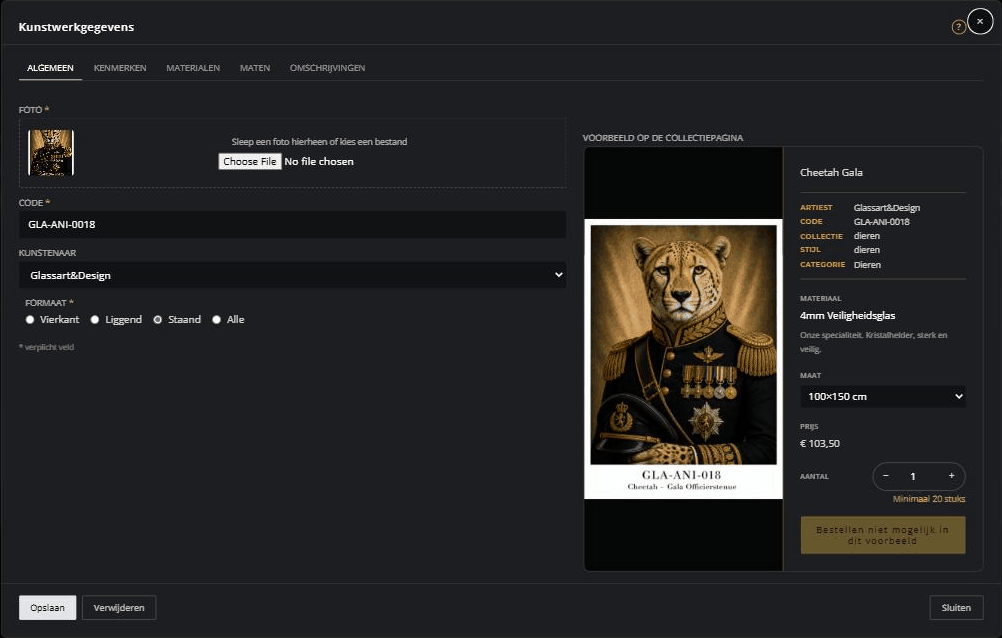
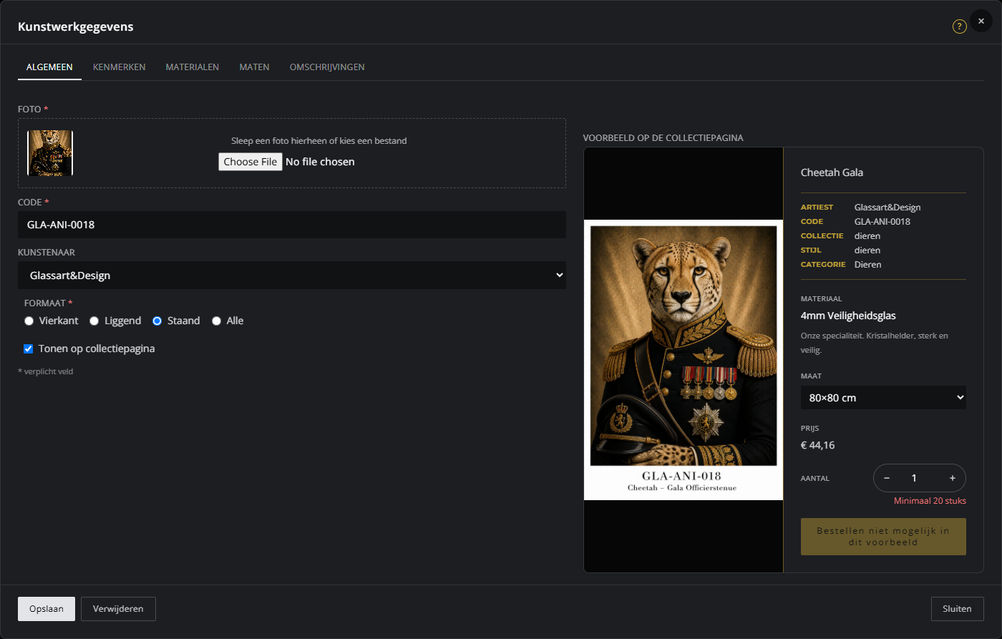
feat: kunstwerk wel of niet tonen op de collectiepagina
Nieuwe kolom toonInCollectie (NOT NULL DEFAULT TRUE) op kunstwerken, met een
vinkje "Tonen op collectiepagina" op het tabblad Algemeen van het
kunstwerkformulier en een kolom "Getoond" in het overzicht.

De collectiepagina filtert uitgezette kunstwerken weg, met één uitzondering: de
ingelogde klant die het exclusieve recht heeft op de kunstenaar van dat
kunstwerk ziet het wél. Daarvoor is heeftExclusiefRecht() toegevoegd naast
resolveOrderRight -- bewust smaller, want die zegt ook ja bij een kunstenaar
zonder exclusiviteit.

In beheer blijft een uitgezet kunstwerk gewoon selecteerbaar voor een nieuwe
bestelregel; alleen de klantwebsite verbergt het.

diff --git a/src/components/beheer/KunstwerkenSection.tsx b/src/components/beheer/KunstwerkenSection.tsx
@@ -12,7 +12,7 @@ import { useKunstwerkFotoUpload } from '@/lib/useKunstwerkFotoUpload';
 import { useAdminAuth } from '@/lib/useAdminAuth';
 import { logActiviteit } from '@/lib/logActiviteit';
 import type { Kunstwerk, Segment, Materiaal, Materiaalsoort, Maat, KunstwerkFormaat, Stijl, Categorie } from './materiaalTypes';
-import { isVierkanteMaat, isMateriaalActief } from './materiaalTypes';
+import { isVierkanteMaat, isMateriaalActief, toontKunstwerkInCollectie } from './materiaalTypes';
 import type { Kunstenaar } from './kunstenaarTypes';
 import { detectFormaatFromFile, detectFormaatFromImageUrl } from '@/lib/detectKunstwerkFormaat';
 import { stelVolgendeCodeVoor, vindBekendePrefixen } from '@/lib/kunstwerkCodeVoorstel';
@@ -68,6 +68,7 @@ const LEGE_FORM = {
   stijlIds: [] as string[],
   categorieIds: [] as string[],
   aiGegenereerd: false,
+  toonInCollectie: true,
   prijsPerM2: '',
   omschrijvingNl: '',
   omschrijvingFr: '',
@@ -110,6 +111,7 @@ export function KunstwerkenSection({
   const [stijlIds, setStijlIds] = useState<string[]>(LEGE_FORM.stijlIds);
   const [categorieIds, setCategorieIds] = useState<string[]>(LEGE_FORM.categorieIds);
   const [aiGegenereerd, setAiGegenereerd] = useState<boolean>(LEGE_FORM.aiGegenereerd);
+  const [toonInCollectie, setToonInCollectie] = useState<boolean>(LEGE_FORM.toonInCollectie);
   const [nieuweSegmentNaam, setNieuweSegmentNaam] = useState('');
   const [pendingNieuweSegmentNaam, setPendingNieuweSegmentNaam] = useState<string | null>(null);
   const [segmentToevoegenError, setSegmentToevoegenError] = useState<string | null>(null);
@@ -307,6 +309,7 @@ export function KunstwerkenSection({
       stijlIds,
       categorieIds,
       aiGegenereerd,
+      toonInCollectie,
       omschrijvingNl,
       omschrijvingFr,
       omschrijvingDe,
@@ -332,6 +335,7 @@ export function KunstwerkenSection({
       stijlIds,
       categorieIds,
       aiGegenereerd,
+      toonInCollectie,
       prijsPerM2,
       omschrijvingNl,
       omschrijvingFr,
@@ -402,6 +406,7 @@ export function KunstwerkenSection({
     setStijlIds(LEGE_FORM.stijlIds);
     setCategorieIds(LEGE_FORM.categorieIds);
     setAiGegenereerd(LEGE_FORM.aiGegenereerd);
+    setToonInCollectie(LEGE_FORM.toonInCollectie);
     setNieuweStijlNaam('');
     setNieuweCategorieNaam('');
     setPendingNieuweStijlNaam(null);
@@ -438,6 +443,7 @@ export function KunstwerkenSection({
     setStijlIds(kunstwerk.stijlIds ?? []);
     setCategorieIds(kunstwerk.categorieIds ?? []);
     setAiGegenereerd(kunstwerk.aiGegenereerd ?? false);
+    setToonInCollectie(toontKunstwerkInCollectie(kunstwerk));
     setPrijsPerM2(kunstwerk.prijsPerM2 != null ? String(kunstwerk.prijsPerM2) : '');
     setOmschrijvingNl(kunstwerk.omschrijvingNl);
     setOmschrijvingFr(kunstwerk.omschrijvingFr);
@@ -707,6 +713,11 @@ export function KunstwerkenSection({
     { key: 'kunstenaarNaam', label: t('kunstwerkenColKunstenaar') },
     { key: 'segmentNamen', label: t('kunstwerkenColSegmenten') },
     { key: 'omschrijvingNl', label: t('kunstwerkenColOmschrijving') },
+    {
+      key: 'toonInCollectie',
+      label: t('kunstwerkenColGetoond'),
+      render: (row) => (toontKunstwerkInCollectie(row) ? 'Ja' : 'Nee'),
+    },
   ];
 
   return (
@@ -1013,6 +1024,16 @@ export function KunstwerkenSection({
               </span>
             )}
           </fieldset>
+
+          <label className="flex items-center gap-2 px-2 text-sm text-white/80">
+            <input
+              type="checkbox"
+              checked={toonInCollectie}
+              onChange={(event) => setToonInCollectie(event.target.checked)}
+              data-testid="kunstwerk-modal-toon-in-collectie"
+            />
+            {t('kunstwerkenLabelToonInCollectie')}
+          </label>
               </div>
 
               <div className={activeTab === 'kenmerken' ? 'flex flex-col gap-3' : 'hidden'}>

diff --git a/src/components/beheer/documentatie/chapters/KunstwerkenChapter.tsx b/src/components/beheer/documentatie/chapters/KunstwerkenChapter.tsx
@@ -6,7 +6,7 @@ export function KunstwerkenChapter() {
       <P>Elk product dat een klant kan bestellen, is een &quot;kunstwerk&quot; in beheer.</P>
       <Screenshot
         src="/documentatie/kunstwerken.png"
-        alt="Het kunstwerk-formulier, tabblad Algemeen, van kunstwerk GLA-ANI-0018 (&quot;Cheetah Gala&quot;) van kunstenaar Glassart&amp;Design, met foto, code, kunstenaar en formaat, met live voorbeeld van de collectiepagina ernaast met artiest, code, collectie, stijl, categorie, materiaal, maat, prijs en aantal"
+        alt="Het kunstwerk-formulier, tabblad Algemeen, van kunstwerk GLA-ANI-0018 (&quot;Cheetah Gala&quot;) van kunstenaar Glassart&amp;Design, met foto, code, kunstenaar, formaat en het aangevinkte &quot;Tonen op collectiepagina&quot;, met live voorbeeld van de collectiepagina ernaast met artiest, code, collectie, stijl, categorie, materiaal, maat, prijs en aantal"
         caption="Het kunstwerk-formulier, tabblad Algemeen (hier: kunstwerk GLA-ANI-0018, &quot;Cheetah Gala&quot;)"
       />
       <SubSection id="kunstwerken-foto" title="Foto">
@@ -57,6 +57,25 @@ export function KunstwerkenChapter() {
           kunstenaar heeft, dan hoef je die niet alsnog te koppelen om je wijziging op te slaan.
           Koppel je wél een kunstenaar, dan gelden voor dit kunstwerk meteen diens
           kunstenaarsopslag en exclusiviteitsregels — zie het hoofdstuk over kunstenaars.
+        </P>
+      </SubSection>
+      <SubSection id="kunstwerken-tonen" title="Tonen op collectiepagina">
+        <P>
+          Met het vinkje &quot;Tonen op collectiepagina&quot; bepaal je of klanten dit kunstwerk in de
+          <DocLink anchor="klant-website"> webshop</DocLink> te zien krijgen. Bij een nieuw kunstwerk
+          staat het vinkje aan. Zet je het uit, dan verdwijnt het kunstwerk uit Collecties — handig voor
+          werk dat je nog niet wilt tonen, of dat je uit de verkoop haalt zonder het te verwijderen. In
+          de kunstwerkenlijst zie je in de kolom &quot;Getoond&quot; in één oogopslag hoe het bij elk
+          kunstwerk staat.
+        </P>
+        <P>
+          Twee dingen blijven gewoon werken. Je kunt het kunstwerk in beheer nog steeds op een bestelling
+          zetten, bijvoorbeeld voor een klant die er telefonisch om vraagt, en bestaande bestellingen
+          waarin het al staat veranderen niet. En heeft een klant het{' '}
+          <DocLink anchor="kunstenaars-exclusiviteit">exclusieve recht</DocLink> op de kunstenaar van dit
+          kunstwerk, dan ziet die klant het na inloggen tóch in Collecties staan — precies waar zo&apos;n
+          vinkje voor bedoeld is: werk uit de open collectie halen zonder het weg te nemen bij de klant
+          die er recht op heeft.
         </P>
       </SubSection>
       <SubSection id="kunstwerken-formaat" title="Formaat en maten">

diff --git a/tests/components/ProductsGrid.test.tsx b/tests/components/ProductsGrid.test.tsx
@@ -547,6 +547,36 @@ describe('ProductsGrid', () => {
     expect(screen.queryByText('Verborgen paneel')).not.toBeInTheDocument();
   });
 
+  it('verbergt een kunstwerk dat niet op de collectiepagina getoond mag worden', async () => {
+    mockCollections({
+      kunstwerken: [
+        { ...KUNSTWERKEN[0], id: 'kw-1', omschrijvingNl: 'Zichtbaar paneel' },
+        { ...KUNSTWERKEN[1], id: 'kw-2', toonInCollectie: false, omschrijvingNl: 'Verborgen paneel' },
+      ],
+    });
+    renderProductsGrid();
+    expect(await screen.findByText('Zichtbaar paneel')).toBeInTheDocument();
+    expect(screen.queryByText('Verborgen paneel')).not.toBeInTheDocument();
+  });
+
+  it('toont een verborgen kunstwerk wél aan de ingelogde klant met exclusief recht', async () => {
+    authUser = { id: 'uid-1', email: 'klant@example.com', status: 'Goedgekeurd', companyName: 'Testbedrijf BV' };
+    mockCollections({
+      kunstwerken: [
+        {
+          ...KUNSTWERKEN[0],
+          id: 'kw-1',
+          kunstenaarnr: 'KU-00001',
+          toonInCollectie: false,
+          omschrijvingNl: 'Exclusief paneel',
+        },
+      ],
+      kunstenaars: [{ ...KUNSTENAARS[0], exclusieveKlantIds: ['uid-1'] }],
+    });
+    renderProductsGrid();
+    expect(await screen.findByText('Exclusief paneel')).toBeInTheDocument();
+  });
+
   it('blijft een materiaalloos kunstwerk tonen', async () => {
     mockCollections({
       kunstwerken: [{ ...KUNSTWERKEN[0], id: 'kw-3', materiaalIds: [], omschrijvingNl: 'Akoestisch paneel' }],

diff --git a/src/components/ProductsGrid.tsx b/src/components/ProductsGrid.tsx
@@ -18,7 +18,8 @@ import { resolveKunstenaarOmschrijving, appendKunstenaarWebsiteZin } from '@/lib
 import { resolveOmschrijving } from '@/lib/resolveOmschrijving';
 import { LinkifiedText } from './LinkifiedText';
 import type { Segment, Kunstwerk, Materiaal, Maat, Materiaalsoort, KunstwerkFormaat, Stijl, Categorie } from './beheer/materiaalTypes';
-import { isMateriaalActief } from './beheer/materiaalTypes';
+import { isMateriaalActief, toontKunstwerkInCollectie } from './beheer/materiaalTypes';
+import { heeftExclusiefRecht } from '@/lib/resolveOrderRight';
 import type { Kunstenaar } from './beheer/kunstenaarTypes';
 
 const CARD_ASPECT_CLASS: Record<Exclude<KunstwerkFormaat, 'alle'>, string> = {
@@ -84,7 +85,15 @@ export function ProductsGrid() {
     return null;
   }
 
-  const allKunstwerken = kunstwerken.items;
+  // Een kunstwerk dat beheer uit de collectie heeft gehaald bestaat verder gewoon: het is
+  // nog bestelbaar via beheer en oude bestelregels blijven kloppen. Alleen de klant die het
+  // exclusieve recht op deze kunstenaar heeft ziet het hier nog wél -- vaak juist het
+  // exclusieve werk dat niet in de open collectie thuishoort.
+  const allKunstwerken = kunstwerken.items.filter(
+    (kunstwerk) =>
+      toontKunstwerkInCollectie(kunstwerk) ||
+      heeftExclusiefRecht(kunstwerk.kunstenaarnr, kunstenaars.items, user?.uid)
+  );
 
   function matchesSegment(kunstwerk: Kunstwerk) {
     return activeFilter === ALL_FILTER || kunstwerk.segmentIds.includes(activeFilter);

diff --git a/tests/components/beheer/KunstwerkenSection.test.tsx b/tests/components/beheer/KunstwerkenSection.test.tsx
@@ -314,6 +314,7 @@ describe('KunstwerkenSection', () => {
         stijlIds: [],
         categorieIds: [],
         aiGegenereerd: false,
+        toonInCollectie: true,
         omschrijvingNl: 'Nieuw kunstwerk',
         omschrijvingFr: '',
         omschrijvingDe: '',
@@ -346,11 +347,25 @@ describe('KunstwerkenSection', () => {
         stijlIds: [],
         categorieIds: [],
         aiGegenereerd: false,
+        toonInCollectie: true,
         omschrijvingNl: 'Hotel paneel 1',
         omschrijvingFr: '',
         omschrijvingDe: '',
         omschrijvingEn: '',
       })
+    );
+  });
+
+  it('slaat een uitgevinkt "tonen op collectiepagina" op', async () => {
+    const { onUpdate } = renderSection();
+    fireEvent.click(screen.getByTestId('data-table-row-kw-1'));
+    expect(screen.getByTestId('kunstwerk-modal-toon-in-collectie')).toBeChecked();
+
+    fireEvent.click(screen.getByTestId('kunstwerk-modal-toon-in-collectie'));
+    fireEvent.click(screen.getByTestId('kunstwerk-modal-opslaan'));
+
+    await waitFor(() =>
+      expect(onUpdate).toHaveBeenCalledWith('kw-1', expect.objectContaining({ toonInCollectie: false }))
     );
   });
 
@@ -615,6 +630,7 @@ describe('KunstwerkenSection', () => {
         stijlIds: [],
         categorieIds: [],
         aiGegenereerd: false,
+        toonInCollectie: true,
         prijsPerM2: 180,
         omschrijvingNl: 'Verbetert de akoestiek.',
         omschrijvingFr: '',

diff --git a/src/lib/resolveOrderRight.ts b/src/lib/resolveOrderRight.ts
@@ -21,6 +21,29 @@ export interface OrderRight {
  * zelf een gekoppeld klantaccount heeft dat er niet in staat. Er is bewust géén
  * automatische "kunstenaar mag altijd eigen werk bestellen"-uitzondering meer.
  */
+/**
+ * Heeft déze klant het exclusieve recht op werk van deze kunstenaar?
+ *
+ * Bewust smaller dan `resolveOrderRight`: die zegt óók "ja" bij een kunstenaar zonder
+ * exclusiviteit. Hier gaat het om het tegenovergestelde -- alleen de klanten die
+ * expliciet in `exclusieveKlantIds` staan. Dat is wat een kunstwerk dat uit de collectie
+ * is gehaald tóch zichtbaar mag maken. Een nog niet geladen kunstenaarslijst levert
+ * `false`: dan blijft het kunstwerk verborgen in plaats van kort op te flitsen.
+ *
+ * `GET /api/kunstenaars` redigeert de lijst voor niet-medewerkers (zie
+ * `redigeerExclusieveKlantIds`), maar juist het antwoord op "sta ik erin" blijft
+ * daarna kloppen.
+ */
+export function heeftExclusiefRecht(
+  kunstenaarnr: string | null,
+  kunstenaars: Kunstenaar[] | null,
+  userUid: string | undefined
+): boolean {
+  if (!kunstenaarnr || !kunstenaars || userUid == null) return false;
+  const kunstenaar = kunstenaars.find((item) => item.kunstenaarnr === kunstenaarnr) ?? null;
+  return (kunstenaar?.exclusieveKlantIds ?? []).includes(userUid);
+}
+
 export function resolveOrderRight(
   kunstenaarnr: string | null,
   kunstenaars: Kunstenaar[] | null,

diff --git a/src/components/beheer/documentatie/chapters/KlantWebsiteChapter.tsx b/src/components/beheer/documentatie/chapters/KlantWebsiteChapter.tsx
@@ -25,7 +25,10 @@ export function KlantWebsiteChapter() {
         <DocLink anchor="kunstwerken">de kunstwerken die jij aanmaakt</DocLink>; de filters komen uit{' '}
         <DocLink anchor="stamgegevens">de overige stamgegevens</DocLink>. Een kunstwerk waarvan geen
         enkel materiaal meer <DocLink anchor="stamgegevens-materialen">actief</DocLink> is, verschijnt
-        hier niet meer.
+        hier niet meer. Hetzelfde geldt voor een kunstwerk waarbij je{' '}
+        <DocLink anchor="kunstwerken-tonen">&quot;Tonen op collectiepagina&quot;</DocLink> hebt
+        uitgezet — met één uitzondering: de klant die het exclusieve recht heeft op de kunstenaar van
+        dat kunstwerk ziet het na inloggen wél staan.
       </P>
       <SubSection id="klant-website-bestellen" title="Een kunstwerk bestellen">
         <P>

diff --git a/src/components/beheer/materiaalTypes.ts b/src/components/beheer/materiaalTypes.ts
@@ -80,10 +80,20 @@ export interface Kunstwerk {
   categorieIds?: string[];
   aiGegenereerd?: boolean;
   prijsPerM2?: number;
+  toonInCollectie?: boolean;
   omschrijvingNl: string;
   omschrijvingFr: string;
   omschrijvingDe: string;
   omschrijvingEn: string;
+}
+
+/**
+ * Zelfde 0/1-valkuil als bij `isMateriaalActief`: `mysql2` geeft een BOOLEAN-kolom
+ * als getal terug. Een ontbrekende waarde telt als tonen -- de kolom is NOT NULL
+ * DEFAULT TRUE, dus dat kan alleen bij een testfixture van vóór deze vlag.
+ */
+export function toontKunstwerkInCollectie(kunstwerk: Pick<Kunstwerk, 'toonInCollectie'>): boolean {
+  return kunstwerk.toonInCollectie === undefined ? true : Boolean(kunstwerk.toonInCollectie);
 }
 
 export interface Prijsgroep {

diff --git a/src/components/beheer/documentatie/DocumentatieSidebar.tsx b/src/components/beheer/documentatie/DocumentatieSidebar.tsx
@@ -41,6 +41,7 @@ const TOC: TocItem[] = [
       { href: '#kunstwerken-foto', label: 'Foto' },
       { href: '#kunstwerken-code', label: 'Code' },
       { href: '#kunstwerken-kunstenaar', label: 'Kunstenaar' },
+      { href: '#kunstwerken-tonen', label: 'Tonen op collectiepagina' },
       { href: '#kunstwerken-formaat', label: 'Formaat en maten' },
       { href: '#kunstwerken-voorbeeld', label: 'Live voorbeeld' },
       { href: '#kunstwerken-opslaan', label: 'Als opslaan niet lukt' },

diff --git a/src/lib/server/tableColumns.ts b/src/lib/server/tableColumns.ts
@@ -111,6 +111,7 @@ export const TABLE_COLUMNS: Record<string, readonly string[]> = {
     'omschrijvingEn',
     'aiGegenereerd',
     'prijsPerM2',
+    'toonInCollectie',
   ],
   instellingen: ['id', 'data'],
   counters: ['id', 'value'],
